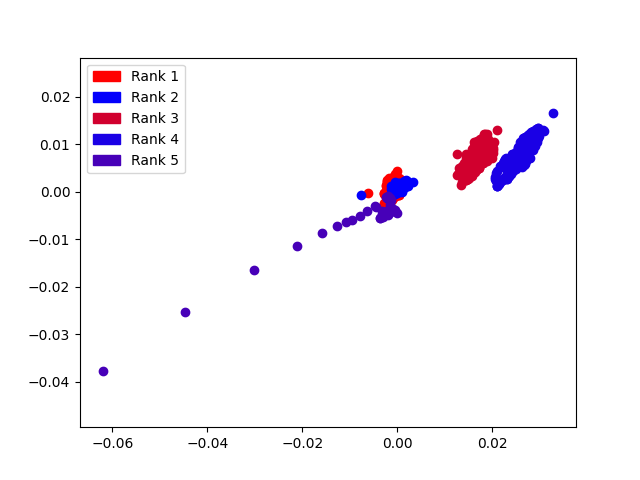
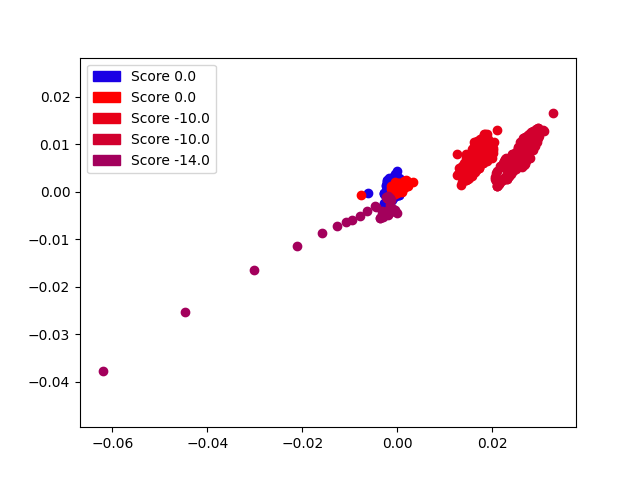
Additional changes for better inference

diff --git a/inference.py b/inference.py
@@ -69,7 +69,7 @@ with torch.no_grad():
         sess_feat = df.loc[df["Session id"]==sess,:]
         for j in range(0,len(sess_feat) - p['seq_len']):
             ax = plot_sample(torch.tensor(sess_feat.iloc[j:j+p['seq_len'],:][train_feats].values).float(), ax, color_cycle[i])
-        patches.append(mpatches.Patch(color=color_cycle[i], label=f"Rank {i+1}"))   
+        patches.append(mpatches.Patch(color=color_cycle[i], label=f"Score {sorted_sess[sess]}"))   
         
     ax.legend(handles=patches)         
     ax.axis('equal')
